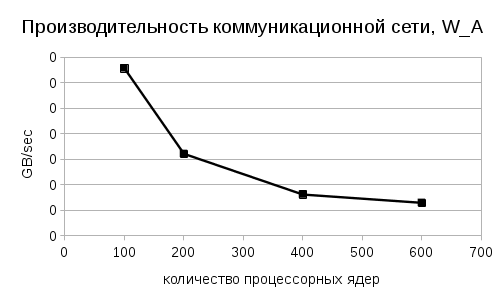
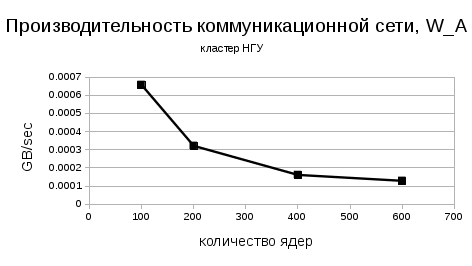
comm size NSU

Changed region(s): [[0.0, 0.0602, 1.0, 0.8421], [0.3263, 0.8722, 0.7712, 0.9624], [0.1186, 0.812, 0.1483, 0.8421]]

diff --git a/Dissertation/part4.tex b/Dissertation/part4.tex
@@ -141,7 +141,7 @@
 	
 	
 	\begin{center}
-		\includegraphics[height=10cm,keepaspectratio]{images/scaleNSU_W_A_new.png}
+		\includegraphics[height=7cm,keepaspectratio]{images/scaleNSU_W_A_new.png}
 		\caption{
 		 Производительность коммуникационной сети для коллективных пересылок (величина $W_A$, формула \ref{Net_performance_collective}). Расчет на сетке $1000 \times 1000 \times 4$ узла. Измерение времени проведено с помощью Intel Trace Analyzer\& Collector на кластере НГУ.
 		}
@@ -150,38 +150,38 @@
 \end{figure}
      Здесь мы подходим к решению основного вопроса главы 4, и одного из основных для всей диссертационной работы в целом - а именно вопроса о том, что расчет по методу частиц может прояснить в отношении ВС на которой он выполнялся. Для этого определим новую характеристику ВС:
      
-     \underline{\textbf{Определение}}: Эффективный коммуникационный размер ВС - максимальное количество процесоров, которое может быть в рамках данной ВС эффективно использовано для решения одной задачи.  
+     \underline{\textbf{Определение}}: Эффективный коммуникационный размер ВС - максимальное количество процессоров, которое может быть в рамках данной ВС эффективно использовано для решения одной задачи.  
      
+     <<Эффективно>> в данном случае означает без существенного падения пропускной способности коммуникационной сети на MPI-пересылках при увеличении количества используемых узлов. За существенное падение в данной работы принято падение более чем в $e$ раз, при том, что безусловно, это не единственно возможный выбор. 
      
-     
-     Осорбую важность представляет вопрос о коммуникационной связности ВС, т.е о том, до какой степени она способна функционировать как целое для решения одной большой задачи. Для решения этого вопроса предлагается перейти от масштабируемости как характеристики программы для решения задачи к анализу графика измнения производительности коммуникационной сети, полученного на основе данных о масштабируемости, т.е графика \ref{scale_W_A}. Далее необходимо тем или иным способом выделить на этом графике участок с большими значениями производительности коммуникационной сети.
-     Один из возможных вариантов показан на графике \ref{scale_W_A_exp}, где показана аппроксимация этой зависимости гауссоидой. Далее ширина этой кривой (126) суммируется с начальной точкой (100), и полученное значение (226) и является эффективным коммуникационным размером данной ВС. Т.е. в данном случае эффективный коммуникационный размер - это количество процессров, для которого производительность коммуникационной сети падает не более чем в $e$ раз по сравнению с максимальной.
+     Особую важность представляет вопрос о коммуникационной связности ВС, т.е о том, до какой степени она способна функционировать как целое для решения одной большой задачи. Для решения этого вопроса предлагается перейти от масштабируемости как характеристики программы для решения задачи к анализу графика изменения производительности коммуникационной сети, полученного на основе данных о масштабируемости, т.е рисунке \ref{scale_W_A}. Далее необходимо тем или иным способом выделить на этом рисунке участок с большими значениями производительности коммуникационной сети.
+     Один из возможных вариантов показан на рисунке \ref{scale_W_A_exp}, где показана аппроксимация этой зависимости гауссоидой. Далее дисперсия этой кривой (126) суммируется с начальной точкой (100), и полученное значение (226) и является эффективным коммуникационным размером данной ВС. Т.е. в данном случае эффективный коммуникационный размер - это количество процессоров, для которого производительность коммуникационной сети падает не более чем в $e$ раз по сравнению с максимальной.
      
      
 \begin{figure}[h]
 	
 	
 	\begin{center}
-		\includegraphics[height=5cm,keepaspectratio]{images/scaleNSU_exp_fit.png}
+		\includegraphics[height=7cm,keepaspectratio]{images/scaleNSU_exp_fit.png}
 		\caption{
-			Производительность коммуникационной сети для коллективных пересылок (величина $W_A$, формула \ref{Net_performance_collective}) - синие точки, и ее аппроксимация гауссовой кривой. 
+			Производительность коммуникационной сети для коллективных пересылок (величина $W_A$, формула \ref{Net_performance_collective}). 
 		}
 		\label{scale_W_A_exp}
 	\end{center} 
 \end{figure}
 
-Далее вычислим эту же величину для двух наиболее характерных примеров графика эффективности в слабом смысле, представленных в диссертационной работе: для МВС-100К - сравнительно небольшая эффективность для большой разнородной ВС и для раздела с GPU на <<Ломоносов>> - очень высокая эффективность для однородной и компактной ВС. 
+Далее вычислим эту же величину для двух наиболее характерных примеров зависимости эффективности в слабом смысле от числа процессорных ядер, представленных в диссертационной работе: для МВС-100К - сравнительно небольшая эффективность для большой разнородной ВС и для раздела ВВС <<Ломоносов>>, оснащенного GPU - очень высокая эффективность для однородной и компактной ВС. 
 
 Напомним формулу для производительности коммуникационной сети ($W_A$, формула \ref{Net_performance_collective}):
 $$
-W_A = \frac{N_X\times N_Y/P_{SUB} \times N_Z \times 24}{T_A}
+W_A = \frac{1}{P_{SUB}}\frac{N_X\times N_Y \times N_Z \times 24}{T_A}
 $$
-для расчета на <<Ломоносов>>, раздел с GPU, $N_X = 102, N_Y = 6, N_Z = 6, P_{SUB}  = 1$
+для расчета раздела ВВС <<Ломоносов>>, оснащенного GPU, $N_X = 102, N_Y = 6, N_Z = 6, P_{SUB}  = 1$
 
 Значения $T_A$ приведены в таблице \ref{Lomonosov_GPU_W_A} и на рисунке \ref{Lomonosov_GPU_W_A}. Эффективный коммуникационный размер в данном случае равен 239 (рисунок \ref{scale_W_A_Lomonosov_GPU}).
 
 \begin{table}[ht]
-\caption{Время выполнения операции MPI\_Allreduce для раздела с GPU на <<Ломоносов>>.}
+\caption{Время выполнения операции MPI\_Allreduce для раздела ВВС <<Ломоносов>>, оснащенного GPU.}
 \begin{tabular}{|c|c|c|}
 	\hline
 количество GPU & Время, сек. & Производительность  \\
@@ -224,14 +224,15 @@ $$
 
 Далее рассмотрим аналогичные показатели для расчетов на МВС-100К, с той разницей, что в них использовалась эйлерова декомпозиция, поэтому вычисляется не $W_A$, а $W_S$ (формула \ref{Net_performance_peer})
 $$
-W_S = \frac{U_P\times \nu N_P \times P_{core}}{T_{S,PIC}}
+W_S = \nu \frac{U_P\times  N_P \times P_{core}}{T_{S,PIC}}
 $$
 где:
 \begin{itemize}
+    \item $\nu$ - доля пересылаемых частиц (напомним, что обычно $\nu \approx 0.05$);
 	\item $U_P$ - количество байт на одну модельную частицу, $U_P = 48$;
 	\item $N_P$ - количество модельных частиц на одно процессорное ядро;  
 	\item $P_{core}$ - количество ядер процессора, $P_{core} = 4$;
-	\item $\nu$ - доля пересылаемых частиц (напомним, что обычно $\nu \approx 0.05$);
+
 	\item $T_{S,PIC}$  - время пересылки частиц, сек.
 \end{itemize}
 
